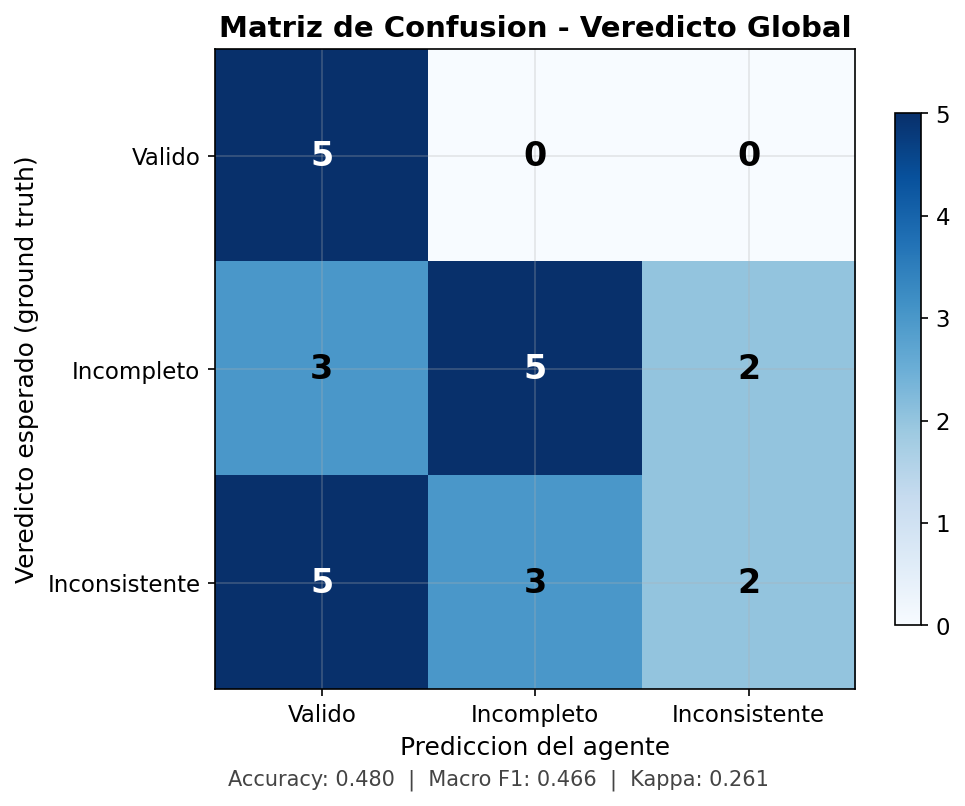
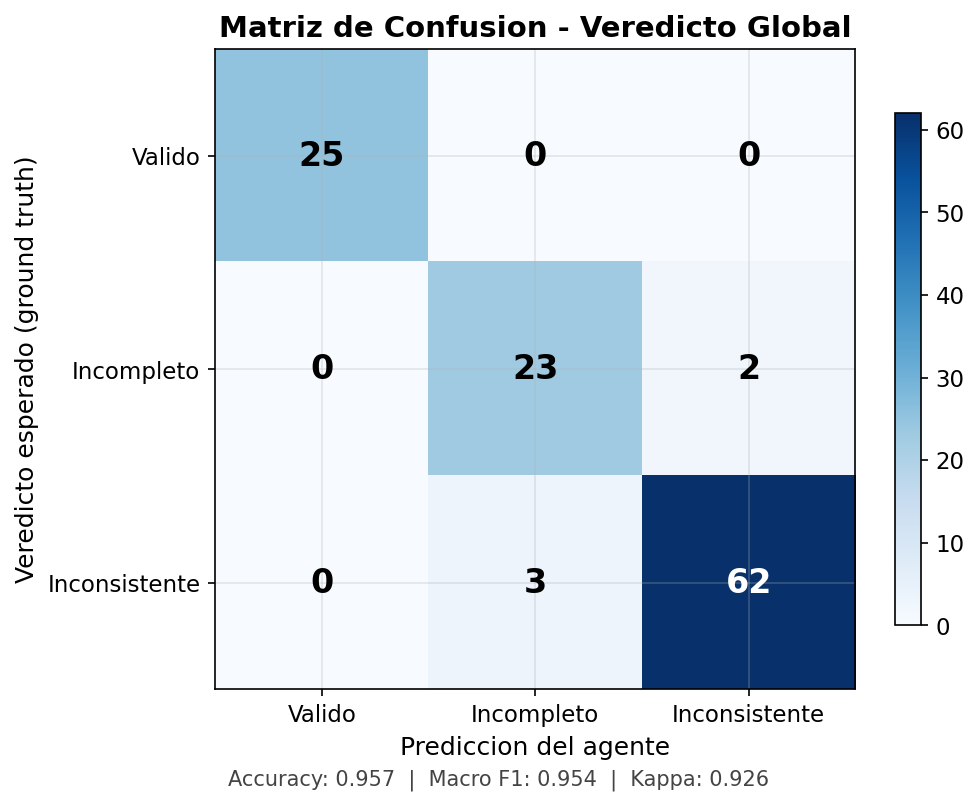
Regenerar figures/ con los resultados finales (no borrarlas)
Las 10 figuras en figures/ eran de julio, generadas sobre una muestra
antigua de 25 documentos (fig1_confusion_matrix.png mostraba Accuracy
0,480 / Macro-F1 0,466 / Kappa 0,261) -- nada que ver con el resultado
final del TFM.

visualize_evaluation.py ya estaba actualizado (usa las claves correctas
de global_metrics y los IDs de protocolo -ES), asi que en vez de borrar
la carpeta se regeneraron las 10 figuras ejecutandolo contra el JSON real
de la evaluacion final citada en la memoria
(results_VERIFICADO_v11_reglas_llm_vl_fixalergia, reglas+LLM+VL sobre la
particion de evaluacion, n=115). Verificado visualmente que coinciden con
los numeros citados en la memoria: Accuracy 0,957 / Macro F1 0,954 /
Kappa 0,926, sensibilidad y especificidad 1,000, notas clinicas 84% de
exactitud frente a 94-100% en el resto de familias, precision de
firma_paciente 0,73 e identificacion_paciente 0,85 (recall 1,00 en todos
los campos obligatorios).

Tambien se quita una referencia rota a "apuntes_hallazgos.md" (archivo
que no existe en el repositorio) en un comentario de
evaluate_synthetic_corpus.py; se conserva el resto de la explicacion
historica (por que se prefirio qwen2.5vl:7b sobre 3b), que si es exacta.

Verificado: pytest tests/ -q -> 18 passed.

diff --git a/evaluate_synthetic_corpus.py b/evaluate_synthetic_corpus.py
@@ -326,9 +326,9 @@ def run_pipeline_on_document(image_path: str, protocol: dict,
 
     # vl_identity_rescue: mismo principio que vl_date_rescue, para
     # "identidad_duplicada". REACTIVADO (2026-09-07): se habia descartado
-    # con qwen2.5vl:3b (ver historial en apuntes_hallazgos.md) tras un falso
-    # positivo real -- el modelo de 3B no se restringia de forma fiable a
-    # numeros de identificacion, devolvia dosis de medicacion, nombres,
+    # con qwen2.5vl:3b tras un falso positivo real -- el modelo de 3B no se
+    # restringia de forma fiable a numeros de identificacion, devolvia
+    # dosis de medicacion, nombres,
     # numeros de colegiado y fechas como si fueran "identificadores"
     # distintos. Comparado directamente contra qwen2.5vl:7b (mismo prompt,
     # mismos documentos): el modelo de 7B devuelve UNICAMENTE los 2 NHC
